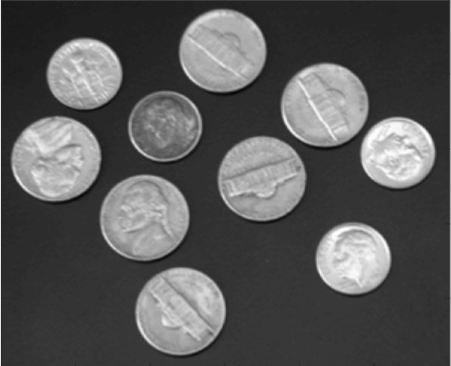
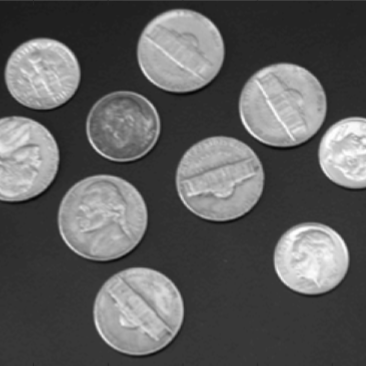
applied fouruer transform....FINALLY!!!!!!

diff --git a/src/App.js b/src/App.js
@@ -2,8 +2,9 @@ import React, { Component } from 'react';
 import Plot from 'react-plotly.js';
 const R = require('ramda');
 const math = require('mathjs');
+const { ComplexArray } = require('jsfft');
 
-const loc = window.location + '/images/shyla.png';
+const loc = window.location + '/images/coins.png';
 
 const invert = imageData => {
     const data = imageData.slice();
@@ -27,44 +28,47 @@ const grayscale = imageData => {
     return data;
 };
 
-const addSaltandPepper = R.curry((black, white, imageData) => {
-    const data = imageData.slice();
-    for(let i = 0; i < data.length; i += 4){
-        const r = math.random(0, 256);
-        const p = r <= black ? 0 : r >= white ? 255 : data[i];
-        data[i] = p;
-        data[i + 1] = p;
-        data[i + 2] = p;
+const fourier = width => imageData => {
+    const data = [];
+    let u = 0;
+    for (let i = 0; i < imageData.length; i += 4) {
+        data[u] = imageData[i];
+        u++;
     }
-    return data;
-});
 
-const filter = R.curry((f, width, height, N, imageData) => {
-    const data = imageData.slice();
-    const m = Math.floor(N / 2);
-    for(let y = 0; y < height; y++){
-        for(let x = 0; x < width; x++){
-            const p = [];
-            for(let k = y - m; k < y + m; k++){
-                for(let j = x - m; j < x + m; j++){
-                    const v = imageData[((k * (width * 4)) + (j * 4))];
-                    p.push(v);
-                }
-            }
-            const sortedArray = R.sort((a, b) => a - b, p);
-            const n = f(sortedArray);
-            const pos = ((y * (width * 4)) + (x * 4));
-            data[pos] = n;
-            data[pos + 1] = n;
-            data[pos + 2] = n;
+    const array = new ComplexArray(data.length).map((value, i, n) => {
+        value.real = data[i] / 255;
+    });
+
+    let frequencies = array.FFT();
+
+    console.log(frequencies);
+
+    frequencies.map((freq, i, n) => {
+        if(i % 5 === 0){
+            freq.real = 0;
+            freq.imag = 0;
+        }
+    });
+
+    frequencies = frequencies.InvFFT();
+
+    const data2 = imageData.slice();
+
+    let i = 0;
+    for (let y = 0; y < width; y++) {
+        for (let x = 0; x < width; x++) {
+            const v = frequencies.real[i] * 255;
+            const p = ((y * (width * 4)) + (x * 4));
+            data2[p] = v
+            data2[p + 1] = v;
+            data2[p + 2] = v;
+            i++;
         }
     }
-    return data;
-});
 
-const medianFilter = filter(a => a[Math.floor(a.length / 2)]);
-const maxFilter = filter(a => a[a.length - 1]);
-const minFilter = filter(a => a[0]);
+    return data2;
+}
 
 const App = _ =>
     <div>
@@ -80,10 +84,10 @@ const App = _ =>
 
                 const imageData = context.getImageData(0, 0, canvas.width, canvas.height).data;
 
+
                 const newImageArray = R.pipe(
                     grayscale,
-                    addSaltandPepper(3, 253),
-                    medianFilter(canvas.width, canvas.height, 3),
+                    fourier(image.width),
                     R.identity
                 )(imageData);
 

diff --git a/src/Functions/Noise/noise.js b/src/Functions/Noise/noise.js
@@ -1,0 +1,48 @@
+const R = require('ramda');
+const math = require('mathjs');
+
+const addSaltandPepper = R.curry((black, white, imageData) => {
+    const data = imageData.slice();
+    for (let i = 0; i < data.length; i += 4) {
+        const r = math.random(0, 256);
+        const p = r <= black ? 0 : r >= white ? 255 : data[i];
+        data[i] = p;
+        data[i + 1] = p;
+        data[i + 2] = p;
+    }
+    return data;
+});
+
+const filter = R.curry((f, width, height, N, imageData) => {
+    const data = imageData.slice();
+    const m = Math.floor(N / 2);
+    for (let y = 0; y < height; y++) {
+        for (let x = 0; x < width; x++) {
+            const p = [];
+            for (let k = y - m; k < y + m; k++) {
+                for (let j = x - m; j < x + m; j++) {
+                    const v = imageData[((k * (width * 4)) + (j * 4))];
+                    p.push(v);
+                }
+            }
+            const sortedArray = R.sort((a, b) => a - b, p);
+            const n = f(sortedArray);
+            const pos = ((y * (width * 4)) + (x * 4));
+            data[pos] = n;
+            data[pos + 1] = n;
+            data[pos + 2] = n;
+        }
+    }
+    return data;
+});
+
+const medianFilter = filter(a => a[Math.floor(a.length / 2)]);
+const maxFilter = filter(a => a[a.length - 1]);
+const minFilter = filter(a => a[0]);
+
+module.exports = {
+    medianFilter,
+    maxFilter,
+    minFilter,
+    addSaltandPepper
+};
